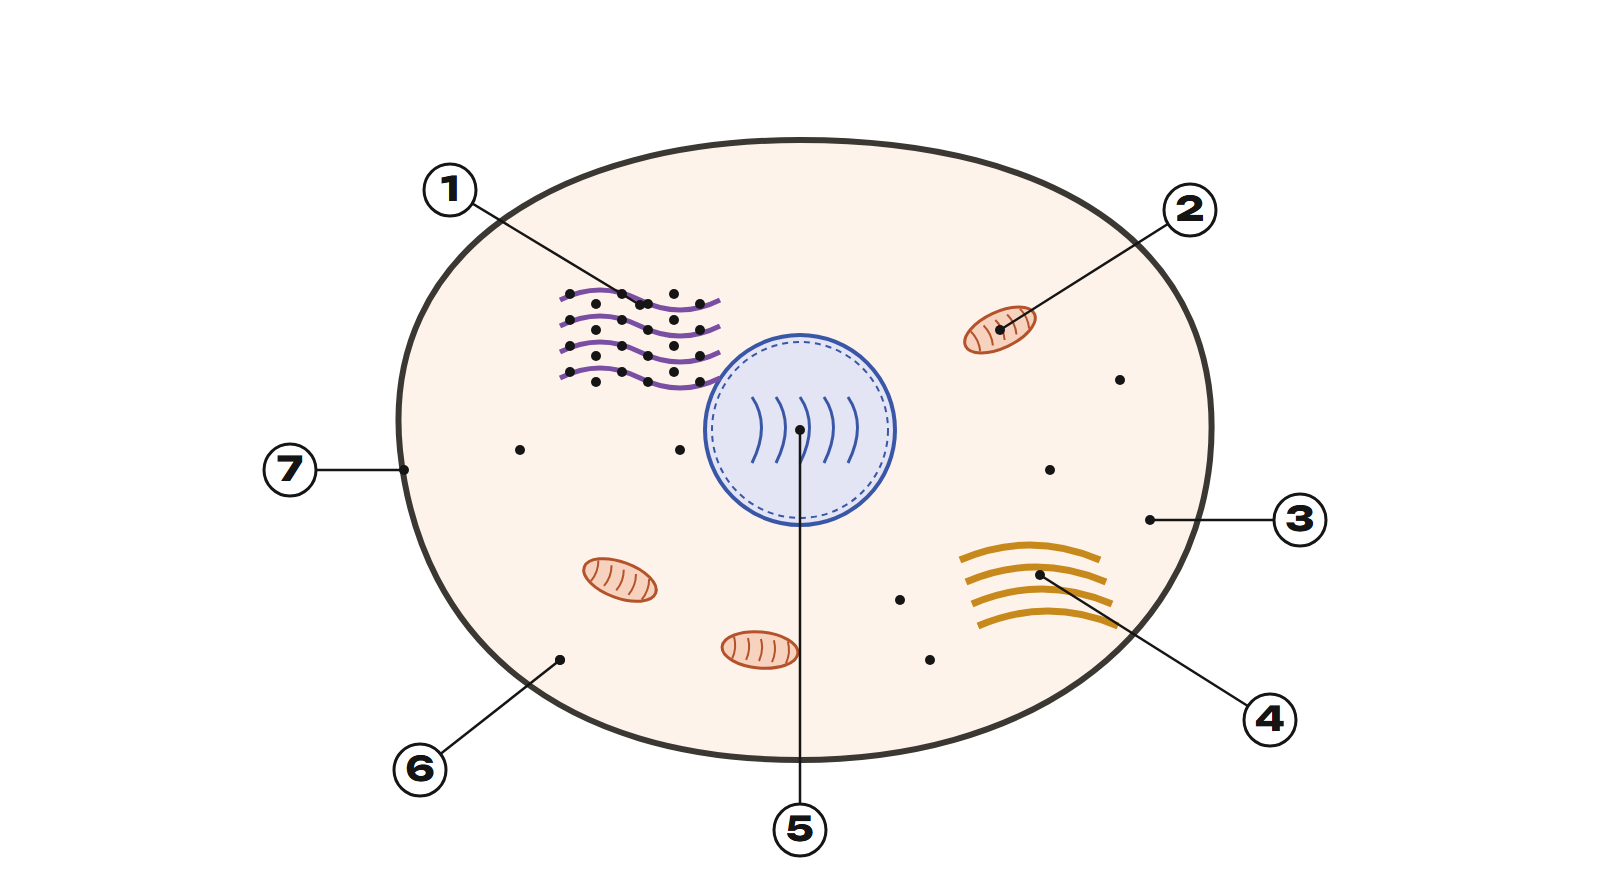
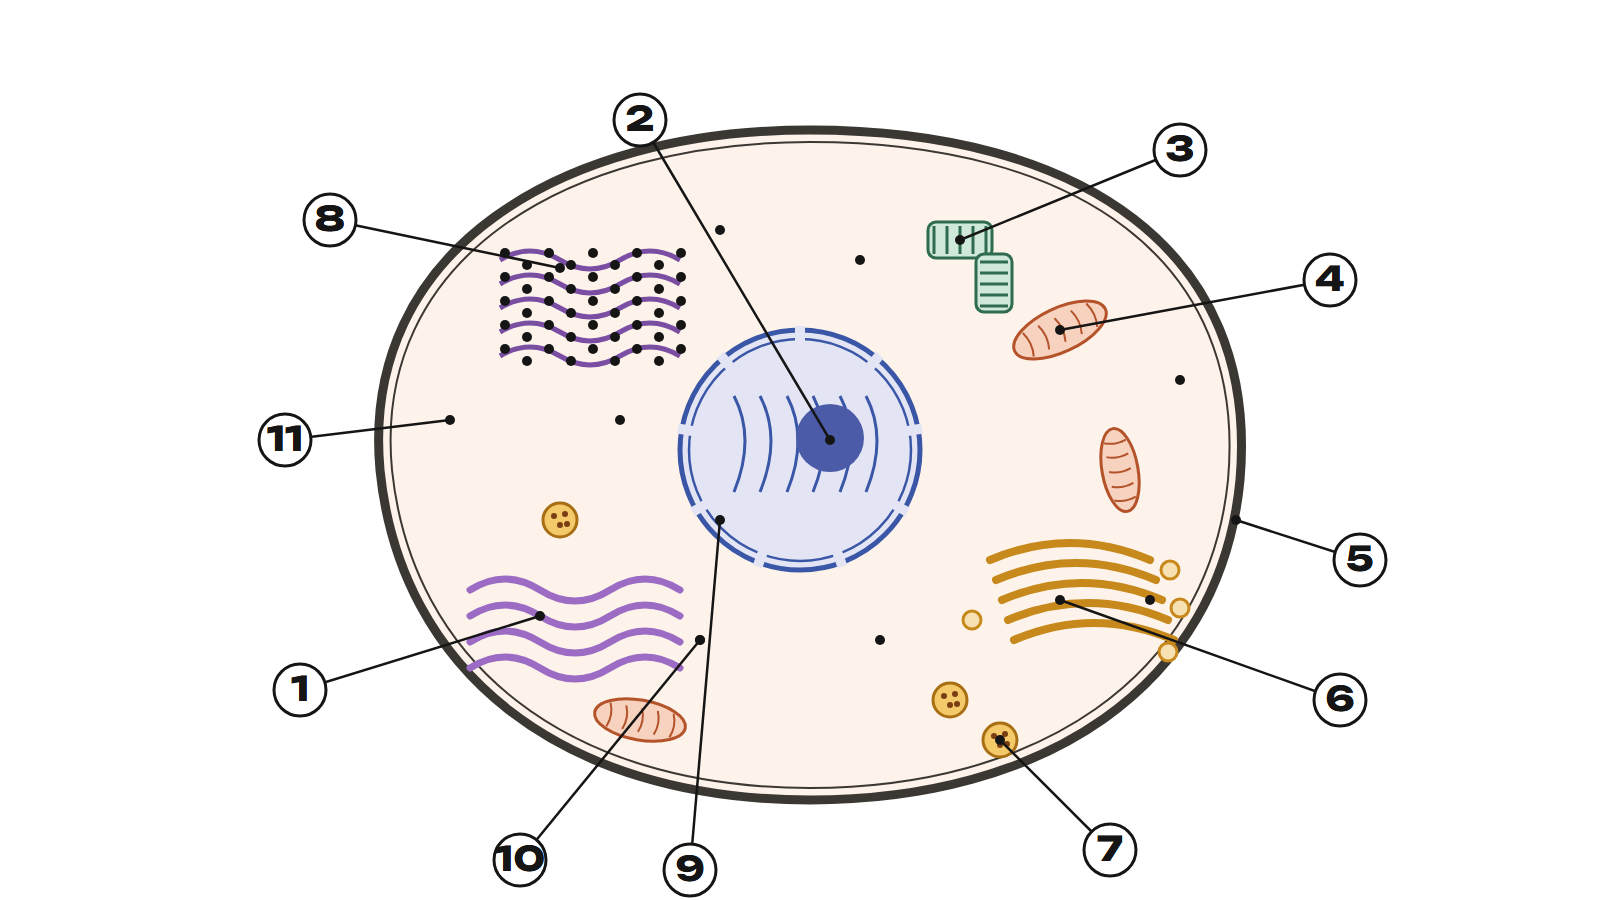
Книга по биологии, пилот: подробные рисунки — клетка с 11 органоидами, клетка листа, сердце в разрезе с перегородкой, полыми венами и клапанами; вопросы под новую нумерацию

diff --git a/tools/pics/bio_numbered.py b/tools/pics/bio_numbered.py
@@ -1,16 +1,17 @@
 """Рисунки с номерами для книги «Конспект ЕНТ: биология»: вопросы «что показано под цифрой N», как в блоке 36–40 ЕНТ.
 
-Геометрия та же, что в рисунках недель (bio_w01.py, bio_w06.py), только вместо подписей — номера.
+Подробные схемы в стиле рисунков недель (органоиды и цвета из common.py и bio_w01.py, синий и красный — из bio_w06.py).
 Вопросы и ответы — course/biology/week-NN/pic-quiz.json, книга собирает их в конец главы и в раздел ответов.
 Запуск: cd tools/pics && ../../.venv/Scripts/python.exe bio_numbered.py
 """
 from __future__ import annotations
 
-from bio_w01 import chloro, mito, nucleus, ribosomes
-from bio_w06 import BLUE, RED, heart
+from bio_w01 import chloro, mito, ribosomes
+from bio_w06 import BLUE, LBLUE, LRED, RED
 from common import INK, ROOT, render, text
 
 BIO = ROOT / 'course' / 'biology'
+MUSCLE = '#E9B3AE'
 
 
 def num(px: float, py: float, tx: float, ty: float, n: int) -> str:
@@ -21,59 +22,128 @@ def num(px: float, py: float, tx: float, ty: float, n: int) -> str:
             + text(tx, ty + 11, str(n), 'h', 'middle'))
 
 
+def nucleus2(cx: float, cy: float, r: float) -> str:
+    """Ядро: двойная оболочка с порами, хроматин, ядрышко."""
+    s = f'<circle cx="{cx}" cy="{cy}" r="{r}" fill="#E3E4F4" stroke="#3A57A7" stroke-width="5"/>'
+    s += f'<circle cx="{cx}" cy="{cy}" r="{r - 9}" fill="none" stroke="#3A57A7" stroke-width="2.5"/>'
+    for a in range(0, 360, 40):
+        s += f'<rect x="{cx - 5}" y="{cy - r - 4}" width="10" height="16" fill="#E3E4F4" transform="rotate({a} {cx} {cy})"/>'
+    s += ''.join(f'<path d="M{cx - r * 0.55 + k * r * 0.22:.0f} {cy - r * 0.45:.0f} q {r * 0.18:.0f} {r * 0.35:.0f} 0 {r * 0.8:.0f}" '
+                 f'fill="none" stroke="#3A57A7" stroke-width="3"/>' for k in range(6))
+    s += f'<circle cx="{cx + r * 0.25:.0f}" cy="{cy - r * 0.1:.0f}" r="{r * 0.28:.0f}" fill="#4B5BA8"/>'
+    return s
+
+
+def lysosome(cx: float, cy: float, r: float = 17) -> str:
+    dots = ''.join(f'<circle cx="{cx + dx}" cy="{cy + dy}" r="3" fill="#7A3E12"/>' for dx, dy in ((-6, -4), (5, -6), (0, 5), (7, 4)))
+    return f'<circle cx="{cx}" cy="{cy}" r="{r}" fill="#F3C969" stroke="#A86F12" stroke-width="3"/>' + dots
+
+
+def centrioles(cx: float, cy: float) -> str:
+    """Клеточный центр: две центриоли под прямым углом."""
+    bars = ''.join(f'<line x1="{cx - 26 + k * 13}" y1="{cy - 14}" x2="{cx - 26 + k * 13}" y2="{cy + 14}" stroke="#2E6B4F" stroke-width="3"/>' for k in range(5))
+    bars2 = ''.join(f'<line x1="{cx + 20}" y1="{cy + 22 + k * 11}" x2="{cx + 48}" y2="{cy + 22 + k * 11}" stroke="#2E6B4F" stroke-width="3"/>' for k in range(5))
+    return (f'<rect x="{cx - 32}" y="{cy - 18}" width="64" height="36" rx="8" fill="#CFE8DA" stroke="#2E6B4F" stroke-width="3"/>{bars}'
+            f'<rect x="{cx + 16}" y="{cy + 14}" width="36" height="58" rx="8" fill="#CFE8DA" stroke="#2E6B4F" stroke-width="3"/>{bars2}')
+
+
+def golgi(x: float, y: float) -> str:
+    s = ''.join(f'<path d="M{x + k * 6} {y + k * 20} q 80 -34 160 0" fill="none" stroke="#C7891B" stroke-width="8" stroke-linecap="round"/>' for k in range(5))
+    s += ''.join(f'<circle cx="{cx}" cy="{cy}" r="9" fill="#F7E1B2" stroke="#C7891B" stroke-width="3"/>'
+                 for cx, cy in ((x + 180, y + 10), (x + 190, y + 48), (x - 18, y + 60), (x + 178, y + 92)))
+    return s
+
+
 def animal_cell() -> str:
-    """Клетка животного: 1 ЭПС, 2 митохондрия, 3 цитоплазма, 4 аппарат Гольджи, 5 ядро, 6 рибосома, 7 мембрана."""
-    s = ('<path d="M400 450 C380 250 560 140 800 140 C1060 140 1230 250 1210 460 C1190 650 1020 760 800 760 '
-         'C560 760 420 640 400 450 Z" fill="#FDF3EA" stroke="#3B3833" stroke-width="6"/>')
-    s += nucleus(800, 430, 95)
-    for k in range(4):
-        y = 300 + k * 26
-        s += f'<path d="M560 {y} q 40 -20 80 0 t 80 0" fill="none" stroke="#7A4FA3" stroke-width="5"/>'
-        s += ribosomes([(570 + j * 26, y - 6 + (j % 2) * 10) for j in range(6)])
-    for k in range(4):
-        s += f'<path d="M{960 + k * 6} {560 + k * 22} q 70 -30 140 0" fill="none" stroke="#C7891B" stroke-width="7"/>'
-    s += mito(620, 580, 38, 18, 20) + mito(1000, 330, 38, 18, -25) + mito(760, 650, 38, 18, 5)
-    s += ribosomes([(900, 600), (930, 660), (680, 450), (1050, 470), (520, 450), (1120, 380), (560, 660)])
-    s += num(640, 305, 450, 190, 1) + num(1000, 330, 1190, 210, 2) + num(1150, 520, 1300, 520, 3)
-    s += num(1040, 575, 1270, 720, 4) + num(800, 430, 800, 830, 5) + num(560, 660, 420, 770, 6) + num(404, 470, 290, 470, 7)
+    """1 гладкая ЭПС, 2 ядрышко, 3 клеточный центр, 4 митохондрия, 5 мембрана, 6 аппарат Гольджи, 7 лизосома,
+    8 шероховатая ЭПС, 9 ядро, 10 рибосомы, 11 цитоплазма."""
+    s = ('<path d="M380 470 C360 250 560 130 810 130 C1080 130 1260 250 1240 480 C1220 690 1040 800 810 800 '
+         'C560 800 400 670 380 470 Z" fill="#FDF3EA" stroke="#3B3833" stroke-width="9"/>')
+    s += ('<path d="M392 470 C372 258 566 142 810 142 C1074 142 1248 258 1228 480 C1208 680 1034 788 810 788 '
+          'C566 788 412 662 392 470 Z" fill="none" stroke="#3B3833" stroke-width="2"/>')
+    s += nucleus2(800, 450, 120)
+    for k in range(5):  # шероховатая ЭПС
+        y = 260 + k * 24
+        s += f'<path d="M500 {y} q 30 -18 60 0 t 60 0 t 60 0" fill="none" stroke="#7A4FA3" stroke-width="5"/>'
+        s += ribosomes([(505 + j * 22, y - 7 + (j % 2) * 12) for j in range(9)])
+    for k in range(4):  # гладкая ЭПС
+        y = 590 + k * 26
+        s += f'<path d="M470 {y} q 35 -22 70 0 t 70 0 t 70 0" fill="none" stroke="#9C6BC4" stroke-width="7" stroke-linecap="round"/>'
+    s += golgi(990, 560)
+    s += mito(1060, 330, 50, 22, -25) + mito(640, 720, 46, 20, 10) + mito(1120, 470, 42, 18, 80)
+    s += lysosome(950, 700) + lysosome(1000, 740) + lysosome(560, 520)
+    s += centrioles(960, 240)
+    s += ribosomes([(700, 640), (880, 640), (1150, 600), (620, 420), (720, 230), (1180, 380), (860, 260)])
+    s += num(540, 616, 300, 690, 1) + num(830, 440, 640, 120, 2) + num(960, 240, 1180, 150, 3) + num(1060, 330, 1330, 280, 4)
+    s += num(1236, 520, 1360, 560, 5) + num(1060, 600, 1340, 700, 6) + num(1000, 740, 1110, 850, 7) + num(560, 268, 330, 220, 8)
+    s += num(720, 520, 690, 870, 9) + num(700, 640, 520, 860, 10) + num(450, 420, 285, 440, 11)
     return s
 
 
 def plant_cell() -> str:
-    """Клетка листа: 1 клеточная стенка, 2 хлоропласт, 3 ядро, 4 центральная вакуоль, 5 мембрана, 6 митохондрия."""
-    s = '<rect x="440" y="160" width="520" height="560" rx="20" fill="#E7F0D9" stroke="#5B7A2A" stroke-width="18"/>'
-    s += '<rect x="458" y="178" width="484" height="524" rx="12" fill="#F4F9EE" stroke="#3B3833" stroke-width="3"/>'
-    s += '<rect x="540" y="280" width="300" height="330" rx="50" fill="#DDEBF7" stroke="#5E8BB5" stroke-width="3"/>'
-    s += nucleus(880, 240, 40)
-    s += ''.join(chloro(x, y, 28, 15, r) for x, y, r in [(495, 290, 80), (495, 470, 95), (900, 380, 85), (900, 540, 100),
-                                                       (600, 665, 0), (730, 665, 5)])
-    s += mito(890, 655, 28, 14, 60)
-    s += num(450, 600, 300, 640, 1) + num(495, 470, 300, 430, 2) + num(880, 240, 1080, 170, 3)
-    s += num(690, 445, 690, 830, 4) + num(462, 240, 300, 220, 5) + num(890, 655, 1080, 720, 6)
+    """1 хлоропласт, 2 ядро, 3 клеточная стенка, 4 центральная вакуоль, 5 мембрана, 6 митохондрия, 7 ядрышко,
+    8 аппарат Гольджи, 9 цитоплазма."""
+    s = '<rect x="400" y="130" width="600" height="640" rx="22" fill="#E7F0D9" stroke="#5B7A2A" stroke-width="22"/>'
+    for x, y, w, h in ((600, 120, 26, 22), (820, 120, 26, 22), (390, 400, 22, 26), (990, 520, 22, 26), (700, 760, 26, 22)):
+        s += f'<rect x="{x}" y="{y}" width="{w}" height="{h}" fill="#F4F9EE"/>'  # поры в стенке
+    s += '<rect x="422" y="152" width="556" height="596" rx="14" fill="#F4F9EE" stroke="#3B3833" stroke-width="3"/>'
+    s += '<path d="M520 300 C520 250 560 230 640 232 L800 236 C880 240 900 280 896 340 L890 600 C886 660 850 680 790 680 L620 676 C550 672 516 640 518 580 Z" fill="#DDEBF7" stroke="#3A6E9B" stroke-width="5"/>'
+    s += nucleus2(905, 225, 55)
+    s += ''.join(chloro(x, y, 34, 18, r) for x, y, r in [(465, 260, 80), (465, 430, 95), (470, 600, 85), (940, 380, 95), (940, 560, 80),
+                                                       (600, 715, 0), (780, 715, 8), (650, 190, 0)])
+    s += mito(930, 690, 30, 14, 60) + mito(780, 190, 30, 14, 10)
+    s += ''.join(f'<path d="M{575 + k * 5} {705 - 60 - k * 14} q 50 -22 100 0" fill="none" stroke="#C7891B" stroke-width="6" stroke-linecap="round"/>' for k in range(0))
+    s += ''.join(f'<path d="M{850 + k * 5} {470 + k * 16} q 40 -18 80 0" fill="none" stroke="#C7891B" stroke-width="6" stroke-linecap="round"/>' for k in range(4))
+    s += ribosomes([(560, 690), (700, 200), (880, 300), (470, 520), (960, 470)])
+    s += num(465, 430, 280, 400, 1) + num(876, 252, 1110, 160, 2) + num(408, 700, 260, 760, 3) + num(700, 450, 700, 870, 4)
+    s += num(424, 300, 260, 260, 5) + num(930, 690, 1120, 760, 6) + num(919, 221, 1120, 300, 7) + num(890, 490, 1120, 520, 8)
+    s += num(520, 690, 430, 860, 9)
     return s
 
 
 def heart_numbered() -> str:
-    """Сердце: 1 лёгочные вены, 2 правое предсердие, 3 аорта, 4 левый желудочек, 5 трёхстворчатый клапан,
-    6 полые вены, 7 правый желудочек, 8 лёгочный ствол, 9 двустворчатый клапан, 10 левое предсердие."""
-    cx, cy = 700, 520
-    s = f'<path d="M{cx - 200} {cy - 210} V {cy - 330}" stroke="{BLUE}" stroke-width="30"/>'
-    s += f'<path d="M{cx - 240} {cy - 120} H {cx - 330}" stroke="{BLUE}" stroke-width="30"/>'
-    s += f'<path d="M{cx + 240} {cy - 150} H {cx + 330} M{cx + 240} {cy - 90} H {cx + 330}" stroke="{RED}" stroke-width="22"/>'
-    s += heart(cx, cy, names=False)
-    s += num(cx + 330, cy - 90, cx + 440, cy - 30, 1) + num(cx - 145, cy - 140, cx - 420, cy - 210, 2)
-    s += num(cx + 28, cy - 290, cx + 150, cy - 390, 3) + num(cx + 123, cy + 110, cx + 420, cy + 200, 4)
-    s += num(cx - 145, cy - 20, cx - 420, cy + 20, 5) + num(cx - 200, cy - 300, cx - 330, cy - 390, 6)
-    s += num(cx - 123, cy + 110, cx - 420, cy + 200, 7) + num(cx - 28, cy - 290, cx - 150, cy - 390, 8)
-    s += num(cx + 145, cy - 20, cx + 440, cy + 60, 9) + num(cx + 145, cy - 140, cx + 440, cy - 230, 10)
-    s += text(cx - 400, cy + 320, '← правая сторона тела', 'cap') + text(cx + 400, cy + 320, 'левая сторона тела →', 'cap', 'end')
+    """Сердце в разрезе, вид спереди: 1 верхняя полая вена, 2 аорта, 3 лёгочный ствол, 4 лёгочные вены, 5 левое предсердие,
+    6 правое предсердие, 7 двустворчатый клапан, 8 трёхстворчатый клапан, 9 полулунный клапан, 10 левый желудочек,
+    11 межжелудочковая перегородка, 12 правый желудочек, 13 нижняя полая вена."""
+    s = ''
+    # аорта: выходит из левого желудочка, дуга над сердцем, ветви вверх
+    s += f'<path d="M780 560 V 210 C780 120 840 80 920 80 C1010 80 1060 130 1060 210 V 330" fill="none" stroke="{RED}" stroke-width="56"/>'
+    s += ''.join(f'<path d="M{x} {y} V 20" stroke="{RED}" stroke-width="18"/>' for x, y in ((870, 70), (930, 62), (990, 72)))
+    # лёгочный ствол: из правого желудочка, делится на две лёгочные артерии
+    s += f'<path d="M650 560 V 250 L 520 180 M650 250 L 700 200 L 1120 200" fill="none" stroke="{BLUE}" stroke-width="44" stroke-linejoin="round"/>'
+    s += f'<path d="M780 560 V 230" fill="none" stroke="{RED}" stroke-width="56"/>'  # аорта поверх ветви лёгочной артерии
+    # полые вены
+    s += f'<path d="M470 110 V 330" stroke="{BLUE}" stroke-width="54"/>'
+    s += f'<path d="M330 1010 V 600 C330 540 360 520 400 520" fill="none" stroke="{BLUE}" stroke-width="54"/>'
+    # лёгочные вены
+    s += f'<path d="M1010 360 H 1170 M1010 450 H 1170" stroke="{RED}" stroke-width="30"/>'
+    # предсердия
+    s += f'<path d="M380 340 C380 300 410 290 450 290 L620 290 C650 290 660 310 660 340 L660 500 L380 500 Z" fill="{LBLUE}" stroke="{BLUE}" stroke-width="7"/>'
+    s += f'<path d="M740 340 C740 300 760 290 800 290 L990 290 C1020 290 1030 310 1030 340 L1030 500 L740 500 Z" fill="{LRED}" stroke="{RED}" stroke-width="7"/>'
+    # желудочки и перегородка; стенка левого желудочка толще
+    s += f'<path d="M380 520 L 680 520 L 690 900 C 600 860 420 760 380 600 Z" fill="{LBLUE}" stroke="{BLUE}" stroke-width="10"/>'
+    s += f'<path d="M730 520 L 1030 520 C 1050 760 900 900 760 950 L 730 905 Z" fill="{MUSCLE}" stroke="{RED}" stroke-width="10"/>'
+    s += f'<path d="M760 545 L 1000 545 C 1015 740 890 860 770 905 Z" fill="{LRED}"/>'
+    s += f'<path d="M680 520 L 730 520 L 730 905 L 690 900 Z" fill="{MUSCLE}" stroke="#B5524A" stroke-width="3"/>'
+    # клапаны
+    for x in (450, 510, 570):
+        s += f'<path d="M{x - 18} 500 L {x} 548 L {x + 18} 500 Z" fill="#fff" stroke="{BLUE}" stroke-width="3"/>'
+    for x in (860, 930):
+        s += f'<path d="M{x - 20} 500 L {x} 552 L {x + 20} 500 Z" fill="#fff" stroke="{RED}" stroke-width="3"/>'
+    for x, c in ((650, BLUE), (780, RED)):
+        s += f'<path d="M{x - 20} 575 q 10 -22 20 0 q 10 -22 20 0" fill="#fff" stroke="{c}" stroke-width="3"/>'
+    s += num(470, 160, 300, 120, 1) + num(900, 82, 1240, 110, 2) + num(650, 268, 560, 50, 3) + num(1170, 450, 1260, 520, 4)
+    s += num(900, 380, 1240, 330, 5) + num(470, 380, 250, 380, 6) + num(930, 520, 1230, 640, 7) + num(510, 520, 250, 560, 8)
+    s += num(780, 575, 600, 660, 9) + num(880, 720, 1180, 820, 10) + num(708, 800, 820, 1010, 11) + num(520, 700, 230, 760, 12)
+    s += num(330, 950, 200, 990, 13)
+    s += text(560, 1040, '← правая сторона тела', 'cap', 'end') + text(860, 1040, 'левая сторона тела →', 'cap')
     return s
 
 
 if __name__ == '__main__':
-    jobs = {BIO / 'week-01' / 'pics' / 'cell-animal-numbered.png': (animal_cell(), 1600, 880),
-            BIO / 'week-01' / 'pics' / 'cell-plant-numbered.png': (plant_cell(), 1400, 880),
-            BIO / 'week-06' / 'pics' / 'heart-numbered.png': (heart_numbered(), 1400, 900)}
+    jobs = {BIO / 'week-01' / 'pics' / 'cell-animal-numbered.png': (animal_cell(), 1600, 900),
+            BIO / 'week-01' / 'pics' / 'cell-plant-numbered.png': (plant_cell(), 1400, 900),
+            BIO / 'week-06' / 'pics' / 'heart-numbered.png': (heart_numbered(), 1400, 1060)}
     for out, (svg, w, h) in jobs.items():
         render(svg, w, h, out)
         print(out)
